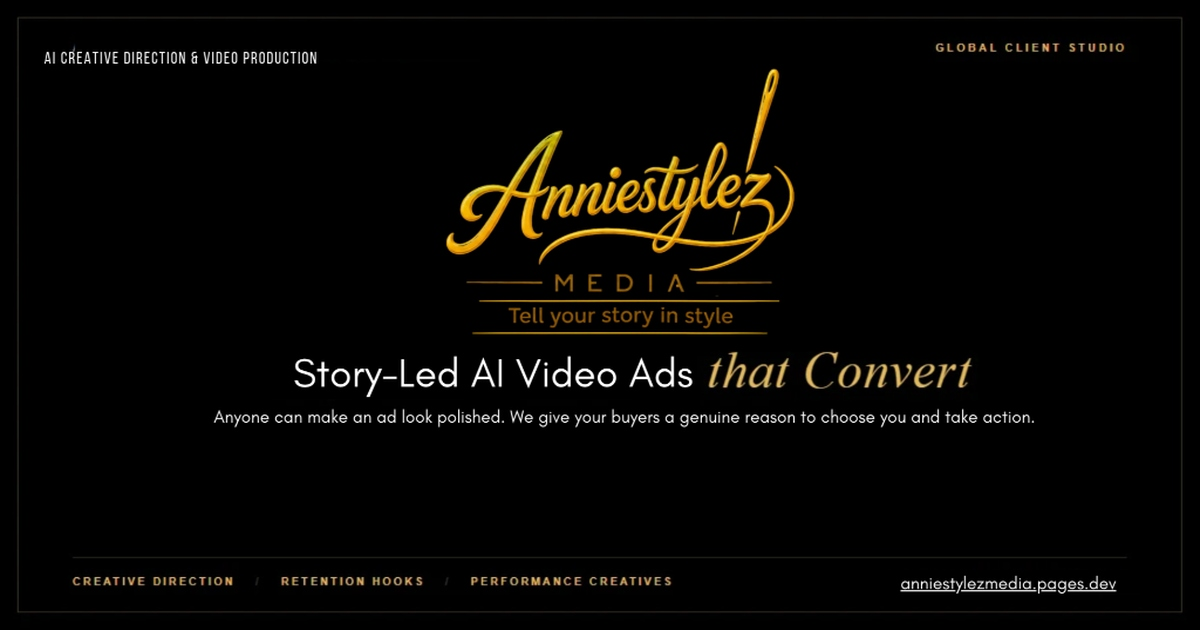
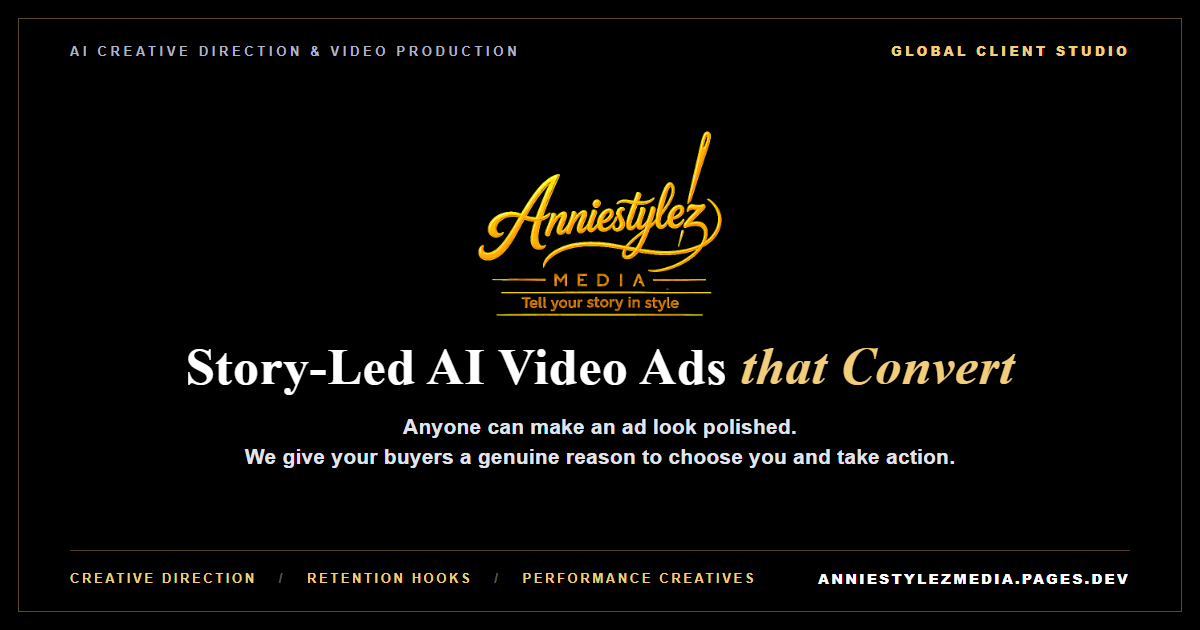
Deploy ultra crisp retina cover with bold readable typography

diff --git a/index.html b/index.html
@@ -9,15 +9,15 @@
 <meta property="og:url" content="https://anniestylezmedia.pages.dev/">
 <meta property="og:title" content="Anniestylez Media: Story-Led AI Video Ads that Convert">
 <meta property="og:description" content="Anyone can make an ad look polished. We give your buyers a genuine reason to choose you and take action.">
-<meta property="og:image" content="https://anniestylezmedia.pages.dev/og_preview.jpg?v=20261021c">
-<meta property="og:image:secure_url" content="https://anniestylezmedia.pages.dev/og_preview.jpg?v=20261021c">
+<meta property="og:image" content="https://anniestylezmedia.pages.dev/og_preview.jpg?v=20261021d">
+<meta property="og:image:secure_url" content="https://anniestylezmedia.pages.dev/og_preview.jpg?v=20261021d">
 <meta property="og:image:type" content="image/jpeg">
 <meta property="og:image:width" content="1200">
 <meta property="og:image:height" content="630">
 <meta name="twitter:card" content="summary_large_image">
 <meta name="twitter:title" content="Anniestylez Media: Story-Led AI Video Ads that Convert">
 <meta name="twitter:description" content="Anyone can make an ad look polished. We give your buyers a genuine reason to choose you and take action.">
-<meta name="twitter:image" content="https://anniestylezmedia.pages.dev/og_preview.jpg?v=20261021c">
+<meta name="twitter:image" content="https://anniestylezmedia.pages.dev/og_preview.jpg?v=20261021d">
 <style>
 @import url('https://fonts.googleapis.com/css2?family=DM+Sans:ital,opsz,wght@0,9..40,300..800;1,9..40,300..800&family=Playfair+Display:ital,wght@0,500;0,600;0,700;1,400;1,600;1,700&family=Plus+Jakarta+Sans:wght@300;400;500;600;700;800&family=Sora:wght@400;600;700;800&family=JetBrains+Mono:wght@400;500;600&display=swap');
 
